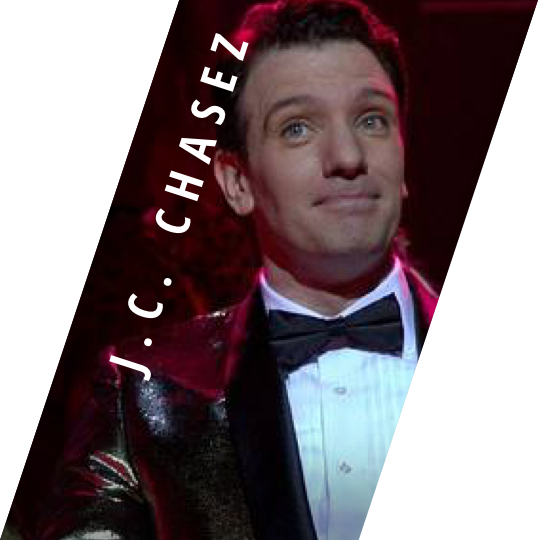
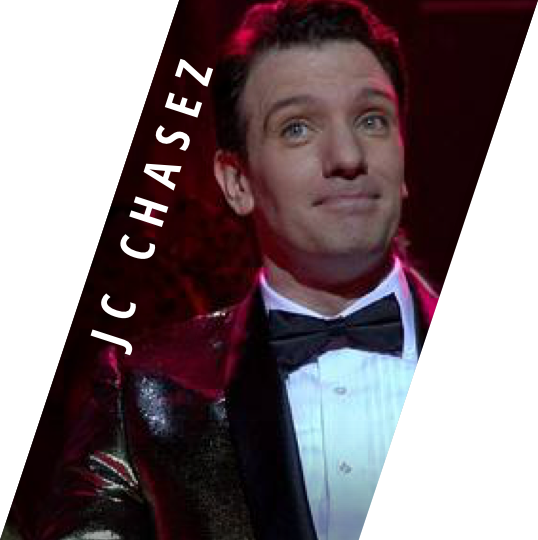
topher clip and thumbnail, jc image, taye clip and thumbnail, anne thumbnails

diff --git a/src/store/Store.js b/src/store/Store.js
@@ -113,12 +113,12 @@ class Store {
         {
           type: this.TYPE_GIPHY,
           id: "OSXrxGfHH0FSU",
-          preview: "assets/images/Anne_1.png"
+          preview: "assets/images/Anne_2.png"
         },
         {
           type: this.TYPE_GIPHY,
           id: "OQzy9a55nFG6s",
-          preview: "assets/images/Anne_2.png"
+          preview: "assets/images/Anne_1.png"
         },
         {
           type: this.TYPE_YOUTUBE,
@@ -138,7 +138,7 @@ class Store {
       videos: [
         {
           type: this.TYPE_YOUTUBE,
-          id: "MlnmQJPXESo",
+          id: "QN8vYpZwkMo",
           preview: "assets/images/Topher_1.png"
         },
         {
@@ -186,7 +186,7 @@ class Store {
     },
     {
       id: 'jc',
-      name: 'J. C. Chasez',
+      name: 'JC Chasez',
       videos: [
         {
           type: this.TYPE_YOUTUBE,
@@ -216,7 +216,7 @@ class Store {
       videos: [
         {
           type: this.TYPE_YOUTUBE,
-          id: "DEuM8R3v1Pw",
+          id: "JMvG2k_In4Q",
           preview: "assets/images/Taye_1.png"
         },
         {
